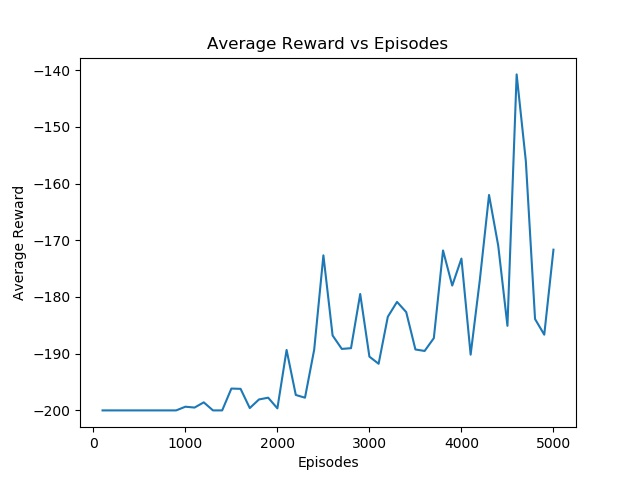
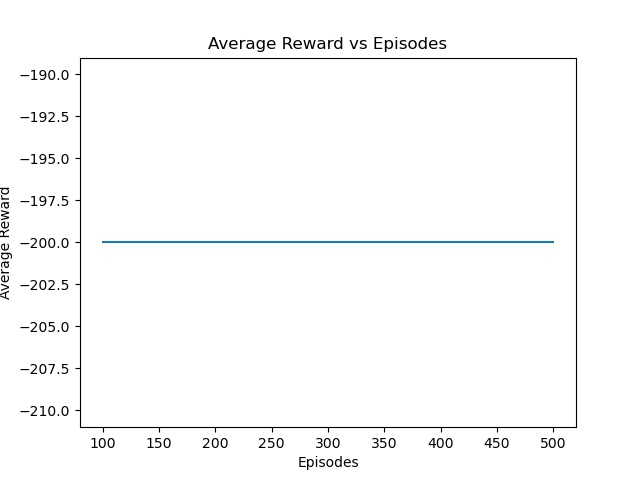
implement test routinas for search algorithms and adding new packages in the requirement file

diff --git a/search/Map.py b/search/Map.py
@@ -35,159 +35,53 @@ class Map(State):
     
     def print(self):
         return str(self.operator)
+    
+    def env(self):
+        return self.city
 
     def h(self):
         return int(Map.g.edges[self.city,self.goal]['distance'])
         #return random.randint(1,10)
         #return 1
 
-def createArea():
-    Map.area = {
-        'a':[(3,'b'),(6,'c')],
-        'b':[(3,'a'),(3,'h'),(3,'k')],
-        'c':[(6,'a'),(2,'g'),(3,'d'),(2,'o'),(2,'p')],
-        'd':[(3,'c'),(1,'f'),(1,'e')],
-        'e':[(2,'i'),(1,'f'),(1,'d'),(14,'m')],
-        'f':[(1,'g'),(1,'e'),(1,'d')],
-        'g':[(2,'c'),(1,'f'),(2,'h')],
-        'h':[(2,'i'),(2,'g'),(3,'b'),(4,'k')],
-        'i':[(2,'e'),(2,'h')],
-        'l':[(1,'k')],
-        'k':[(1,'l'),(3,'n'),(4,'h'),(3,'b')],
-        'm':[(2,'n'),(1,'x'),(14,'e')],
-        'n':[(2,'m'),(3,'k')],
-        'o':[(2,'c')],
-        'p':[(2,'c')],
-        'x':[(1,'m')]
-        }
+    @staticmethod
+    def createArea():
+        Map.area = {
+            'a':[(3,'b'),(6,'c')],
+            'b':[(3,'a'),(3,'h'),(3,'k')],
+            'c':[(6,'a'),(2,'g'),(3,'d'),(2,'o'),(2,'p')],
+            'd':[(3,'c'),(1,'f'),(1,'e')],
+            'e':[(2,'i'),(1,'f'),(1,'d'),(14,'m')],
+            'f':[(1,'g'),(1,'e'),(1,'d')],
+            'g':[(2,'c'),(1,'f'),(2,'h')],
+            'h':[(2,'i'),(2,'g'),(3,'b'),(4,'k')],
+            'i':[(2,'e'),(2,'h')],
+            'l':[(1,'k')],
+            'k':[(1,'l'),(3,'n'),(4,'h'),(3,'b')],
+            'm':[(2,'n'),(1,'x'),(14,'e')],
+            'n':[(2,'m'),(3,'k')],
+            'o':[(2,'c')],
+            'p':[(2,'c')],
+            'x':[(1,'m')]
+            }
 
-def createHeuristics():
-    #
-    # O arquvo MapHeuristics.csv considera apenas os objetivos "o" e "x"
-    # TODO modificar o arquivo para considerar todas as cidades
-    #
-    Map.g = nx.Graph()
-    f = csv.reader(open("MapHeuristics.csv","r"))
-    for row in f: 
-        Map.g.add_edge(row[0],row[1], distance = row[2])
+    @staticmethod
+    def createHeuristics():
+        #
+        # O arquvo MapHeuristics.csv considera apenas os objetivos "o" e "x"
+        # TODO modificar o arquivo para considerar todas as cidades. talvez modificar
+        # a estrutura do arquivo considerando uma estrutura otimizada
+        #
+        Map.g = nx.Graph()
+        f = csv.reader(open("MapHeuristics.csv","r"))
+        for row in f: 
+            Map.g.add_edge(row[0],row[1], distance = row[2])
 
 
 def main():
 
-    createArea()
-    createHeuristics()
-
-    print('Busca em profundidade iterativa: sair de h e chegar em o')
-    state = Map('h', 0, 'h', 'o')
-    algorithm = BuscaProfundidadeIterativa()
-    ts = time.time()
-    result = algorithm.search(state)
-    tf = time.time()
-    if result != None:
-        print(result.show_path())
-    else:
-        print('Nao achou solucao')
-    print('Tempo de processamento em segundos: ' + str(tf-ts))
-    print('O custo da solucao eh: '+str(result.g))
-    print('')
-
-    print('Busca em profundidade iterativa: sair de i e chegar em x')
-    state = Map('i', 0, 'i', 'x')
-    algorithm = BuscaProfundidadeIterativa()
-    ts = time.time()
-    result = algorithm.search(state)
-    tf = time.time()
-    if result != None:
-        print(result.show_path())
-    else:
-        print('Nao achou solucao')
-    print('Tempo de processamento em segundos: ' + str(tf-ts))
-    print('O custo da solucao eh: '+str(result.g))
-    print('')
-
-    print('Busca em de custo uniforme: sair de h e chegar em o')
-    state = Map('h', 0, 'h', 'o')
-    algorithm = BuscaCustoUniforme()
-    ts = time.time()
-    result = algorithm.search(state)
-    tf = time.time()
-    if result != None:
-        print(result.show_path())
-    else:
-        print('Nao achou solucao')
-    print('Tempo de processamento em segundos: ' + str(tf-ts))
-    print('O custo da solucao eh: '+str(result.g))
-    print('')
-
-    print('Busca de custo uniforme: sair de i e chegar em x')
-    state = Map('i', 0, 'i', 'x')
-    algorithm = BuscaCustoUniforme()
-    ts = time.time()
-    result = algorithm.search(state)
-    tf = time.time()
-    if result != None:
-        print(result.show_path())
-    else:
-        print('Nao achou solucao')
-    print('Tempo de processamento em segundos: ' + str(tf-ts))
-    print('O custo da solucao eh: '+str(result.g))
-    print('')
-
-    print('Busca de custo uniforme: sair de p e chegar em n')
-    state = Map('p', 0, 'p', 'n')
-    algorithm = BuscaCustoUniforme()
-    ts = time.time()
-    result = algorithm.search(state)
-    tf = time.time()
-    if result != None:
-        print(result.show_path())
-    else:
-        print('Nao achou solucao')
-    print('Tempo de processamento em segundos: ' + str(tf-ts))
-    print('O custo da solucao eh: '+str(result.g))
-    print('')
-    
-    print('Busca por algoritmo Ganancioso: sair de h e chegar em o')
-    state = Map('h', 0, 'h', 'o')
-    algorithm = BuscaGananciosa()
-    ts = time.time()
-    result = algorithm.search(state)
-    tf = time.time()
-    if result != None:
-        print(result.show_path())
-    else:
-        print('Nao achou solucao')
-    print('Tempo de processamento em segundos: ' + str(tf-ts))
-    print('O custo da solucao eh: '+str(result.g))
-    print('')
-
-    print('Busca por algoritmo A*: sair de h e chegar em o')
-    state = Map('h', 0, 'h', 'o')
-    algorithm = AEstrela()
-    ts = time.time()
-    result = algorithm.search(state)
-    tf = time.time()
-    if result != None:
-        print(result.show_path())
-    else:
-        print('Nao achou solucao')
-    print('Tempo de processamento em segundos: ' + str(tf-ts))
-    print('O custo da solucao eh: '+str(result.g))
-    print('')
-
-    print('Busca por algoritmo A*: sair de i e chegar em x')
-    state = Map('i', 0, 'i', 'x')
-    algorithm = AEstrela()
-    ts = time.time()
-    result = algorithm.search(state)
-    tf = time.time()
-    if result != None:
-        print(result.show_path())
-    else:
-        print('Nao achou solucao')
-    print('Tempo de processamento em segundos: ' + str(tf-ts))
-    print('O custo da solucao eh: '+str(result.g))
-    print('')
+    Map.createArea()
+    Map.createHeuristics()
 
     print('Busca por algoritmo A*: sair de p e chegar em n')
     state = Map('p', 0, 'p', 'n')

diff --git a/search/test_Map.py b/search/test_Map.py
@@ -1,0 +1,108 @@
+from SearchAlgorithms import BuscaProfundidadeIterativa
+from SearchAlgorithms import BuscaCustoUniforme
+from SearchAlgorithms import BuscaGananciosa
+from SearchAlgorithms import AEstrela
+from Map import Map
+import time
+
+Map.createArea()
+Map.createHeuristics()
+
+def test_BPI():
+    print('Busca em profundidade iterativa: sair de h e chegar em o')
+    state = Map('h', 0, 'h', 'o')
+    algorithm = BuscaProfundidadeIterativa()
+    ts = time.time()
+    result = algorithm.search(state)
+    tf = time.time()
+    print('Tempo de processamento em segundos: ' + str(tf-ts))
+    print('O custo da solucao eh: '+str(result.g))
+    assert result.show_path() == "h ; g ; c ; o"
+
+def test_BPI2():
+    print('Busca em profundidade iterativa: sair de i e chegar em x')
+    state = Map('i', 0, 'i', 'x')
+    algorithm = BuscaProfundidadeIterativa()
+    ts = time.time()
+    result = algorithm.search(state)
+    tf = time.time()
+    print('Tempo de processamento em segundos: ' + str(tf-ts))
+    print('O custo da solucao eh: '+str(result.g))
+    assert result.show_path() == "i ; e ; m ; x"
+
+def test_BCU():
+    print('Busca em de custo uniforme: sair de h e chegar em o')
+    state = Map('h', 0, 'h', 'o')
+    algorithm = BuscaCustoUniforme()
+    ts = time.time()
+    result = algorithm.search(state)
+    tf = time.time()
+    print('Tempo de processamento em segundos: ' + str(tf-ts))
+    print('O custo da solucao eh: '+str(result.g))
+    assert result.show_path() == "h ; g ; c ; o"
+
+def test_BCU2():
+    print('Busca de custo uniforme: sair de i e chegar em x')
+    state = Map('i', 0, 'i', 'x')
+    algorithm = BuscaCustoUniforme()
+    ts = time.time()
+    result = algorithm.search(state)
+    tf = time.time()
+    print('Tempo de processamento em segundos: ' + str(tf-ts))
+    print('O custo da solucao eh: '+str(result.g))
+    assert result.show_path() == "i ; h ; k ; n ; m ; x"
+
+def test_BCU3():
+    print('Busca de custo uniforme: sair de p e chegar em n')
+    state = Map('p', 0, 'p', 'n')
+    algorithm = BuscaCustoUniforme()
+    ts = time.time()
+    result = algorithm.search(state)
+    tf = time.time()
+    print('Tempo de processamento em segundos: ' + str(tf-ts))
+    print('O custo da solucao eh: '+str(result.g))
+    assert result.show_path() == "p ; c ; g ; h ; k ; n"
+    
+def test_Gananciosa():
+    print('Busca por algoritmo Ganancioso: sair de h e chegar em o')
+    state = Map('h', 0, 'h', 'o')
+    algorithm = BuscaGananciosa()
+    ts = time.time()
+    result = algorithm.search(state)
+    tf = time.time()
+    print('Tempo de processamento em segundos: ' + str(tf-ts))
+    print('O custo da solucao eh: '+str(result.g))
+    assert result.show_path() == "h ; g ; c ; o"
+
+def test_AEstrela():
+    print('Busca por algoritmo A*: sair de h e chegar em o')
+    state = Map('h', 0, 'h', 'o')
+    algorithm = AEstrela()
+    ts = time.time()
+    result = algorithm.search(state)
+    tf = time.time()
+    print('Tempo de processamento em segundos: ' + str(tf-ts))
+    print('O custo da solucao eh: '+str(result.g))
+    assert result.show_path() == "h ; g ; c ; o"
+
+def test_AEstrela2():
+    print('Busca por algoritmo A*: sair de i e chegar em x')
+    state = Map('i', 0, 'i', 'x')
+    algorithm = AEstrela()
+    ts = time.time()
+    result = algorithm.search(state)
+    tf = time.time()
+    print('Tempo de processamento em segundos: ' + str(tf-ts))
+    print('O custo da solucao eh: '+str(result.g))
+    assert result.show_path() == "i ; e ; m ; x"
+
+def test_AEstrela3():
+    print('Busca por algoritmo A*: sair de p e chegar em n')
+    state = Map('p', 0, 'p', 'n')
+    algorithm = AEstrela()
+    ts = time.time()
+    result = algorithm.search(state)
+    tf = time.time()
+    print('Tempo de processamento em segundos: ' + str(tf-ts))
+    print('O custo da solucao eh: '+str(result.g))
+    assert result.show_path() == "p ; c ; g ; h ; k ; n"

diff --git a/search/VacuumWorld.py b/search/VacuumWorld.py
@@ -62,7 +62,7 @@ def main():
     #
     # Executando busca em largura
     #
-    state = VacuumWorld('left', True, False, '')
+    state = VacuumWorld('left', False, False, '')
     algorithm = BuscaLargura()
     result = algorithm.search(state)
     if result != None:
@@ -74,7 +74,7 @@ def main():
     #
     # Executando busca em profundidade
     #
-    state = VacuumWorld('left', True, False, '')
+    state = VacuumWorld('left', False, False, '')
     algorithm = BuscaProfundidade()
     result = algorithm.search(state, 10)
     if result != None:

diff --git a/reinLearn/MountainCar.py b/reinLearn/MountainCar.py
@@ -105,7 +105,7 @@ def QLearning(env, alpha, gamma, epsilon, epsilon_min, epsilon_dec, episodes):
     return ave_reward_list, actions_per_episode
 
 # Run Q-learning algorithm
-rewards, qtd_actions = QLearning(env, 0.2, 0.9, 0.8, 0, 0.999, 5000)
+rewards, qtd_actions = QLearning(env, 0.1, 0.9, 0.8, 0, 0.999, 5000)
 
 # Plot Rewards
 plt.plot(100*(np.arange(len(rewards)) + 1), rewards)

diff --git a/reinLearn/Projetos.md b/reinLearn/Projetos.md
@@ -4,9 +4,32 @@ No primeiro semestre de 2020 os seguintes projetos envolvendo aprendizagem por r
 
 ## Agente para o ambiente Frozen Lake (FrozenLake-v0)
 
-O ambiente Frozen Lake é um ambiente não determinístico onde um agente deve encontrar um caminho do lugar onde ele está para outro lugar passando por buracos. Se ele chegar no objetivo sem cair no buraco então ele termina a simulação e tem 1 ponto de reward. Se ele cair em um dos buracos então ele termina a simulação com 0 pontos de reward. Como o chão é de gelo, não necessariamente a ação de ir para baixo vai levar o agente para baixo, por exemplo. Isto acontece com todas as quatro ações. Por isso que este ambiente é não determinístico. 
+O ambiente Frozen Lake é um ambiente não determinístico onde um agente deve encontrar um caminho do lugar onde ele está para outro lugar passando por buracos. Se ele chegar no objetivo sem cair no buraco então ele termina a tarefa e tem 1 ponto de reward. Se ele cair em um dos buracos então ele termina a tarefa com 0 pontos de reward. 
 
-O objetivo deste projeto é identificar os melhores hiperparâmetros para o agente usando uma abordagem de GridSearch. O código está no arquivo [GridSearchQ.py](GridSearchQ.py). Os valores testados para os hiperparâmetros foram: 
+Neste ambiente o agente consegue executar 4 ações: ir para cima, ir para baixo, ir para esquerda e ir para direita. Como o chão é de gelo, não necessariamente a ação de ir para baixo vai levar o agente para baixo, por exemplo. Isto acontece com todas as quatro ações. Por isso que este ambiente é não determinístico. 
+
+O objetivo deste projeto é identificar os melhores hiperparâmetros para o agente usando uma abordagem de GridSearch. As implementações executam as seguintes etapas:
+
+* Para cada combinação de valores dos hiperparâmetros, a implementação gera uma q-table;
+* Esta q-table é avaliada com 100 execuções no ambiente;
+* Ao final das execuções são contabilizadas quantas vezes o agente termina a tarefa com sucesso.
+* Seleciona-se os hiperparâmetros e a q-table com o maior número de execuções com sucesso. 
+* *Opcional*: executa-se N vezes o problema considerando a q-table gerada para validar se o resultado obtido é replicado.
+
+Para este problema existem duas implementações: 
+
+* [GridSearchQ.py](GridSearchQ.py): uma implementação sequencial para definir os melhores hiperparâmetros. O problema desta implementação é o tempo necessário para terminar a execução, visto que a combinação dos possíveis valores dos hiperparâmetros pode ser de fato grande. 
+
+* [GridSearchQConc.py](GridSearchQConc.py): trata-se de uma versão concorrente da implementação acima, ou seja, consegue executar todas as simulações em um tempo bem menor que a versão sequencial. Recomendamos a execução desta versão. Para a execução desta versão é necessário executar a seguinte ordem de comandos:
+
+````
+./execute_frozen_lake_grid_search.sh
+# após terminada a execução
+./generate_results_frozen_lake.sh
+# isto irah gerar um arquivo grid_results/finalResults_FrozenLake_final.csv com os resultados
+````
+
+Os valores testados para os hiperparâmetros foram: 
 
 `````
 parameters = {
@@ -16,6 +39,7 @@ parameters = {
     "episodes": [10000, 50000, 100000]
 }
 `````
+
 O relatório com a apresentação dos melhores resultados está em [grid_results/Report/Report.md](grid_results/Report/Report.md). A análise dos resultados mostra que a melhor configuração é
 
 * alpha = 0.2
